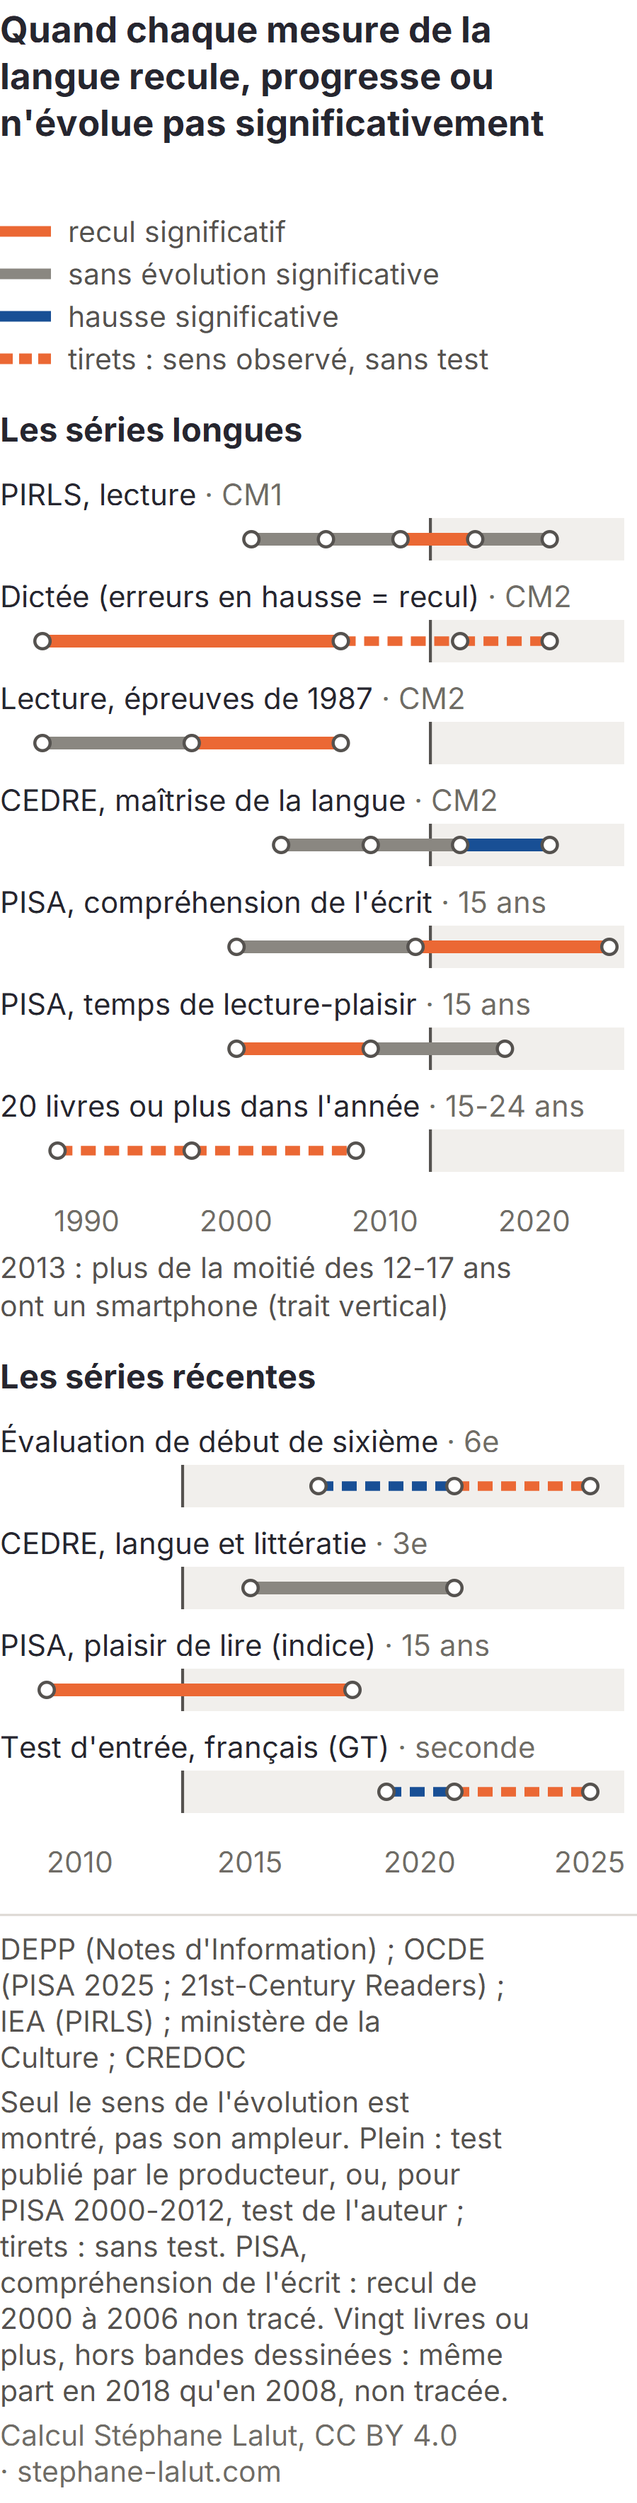
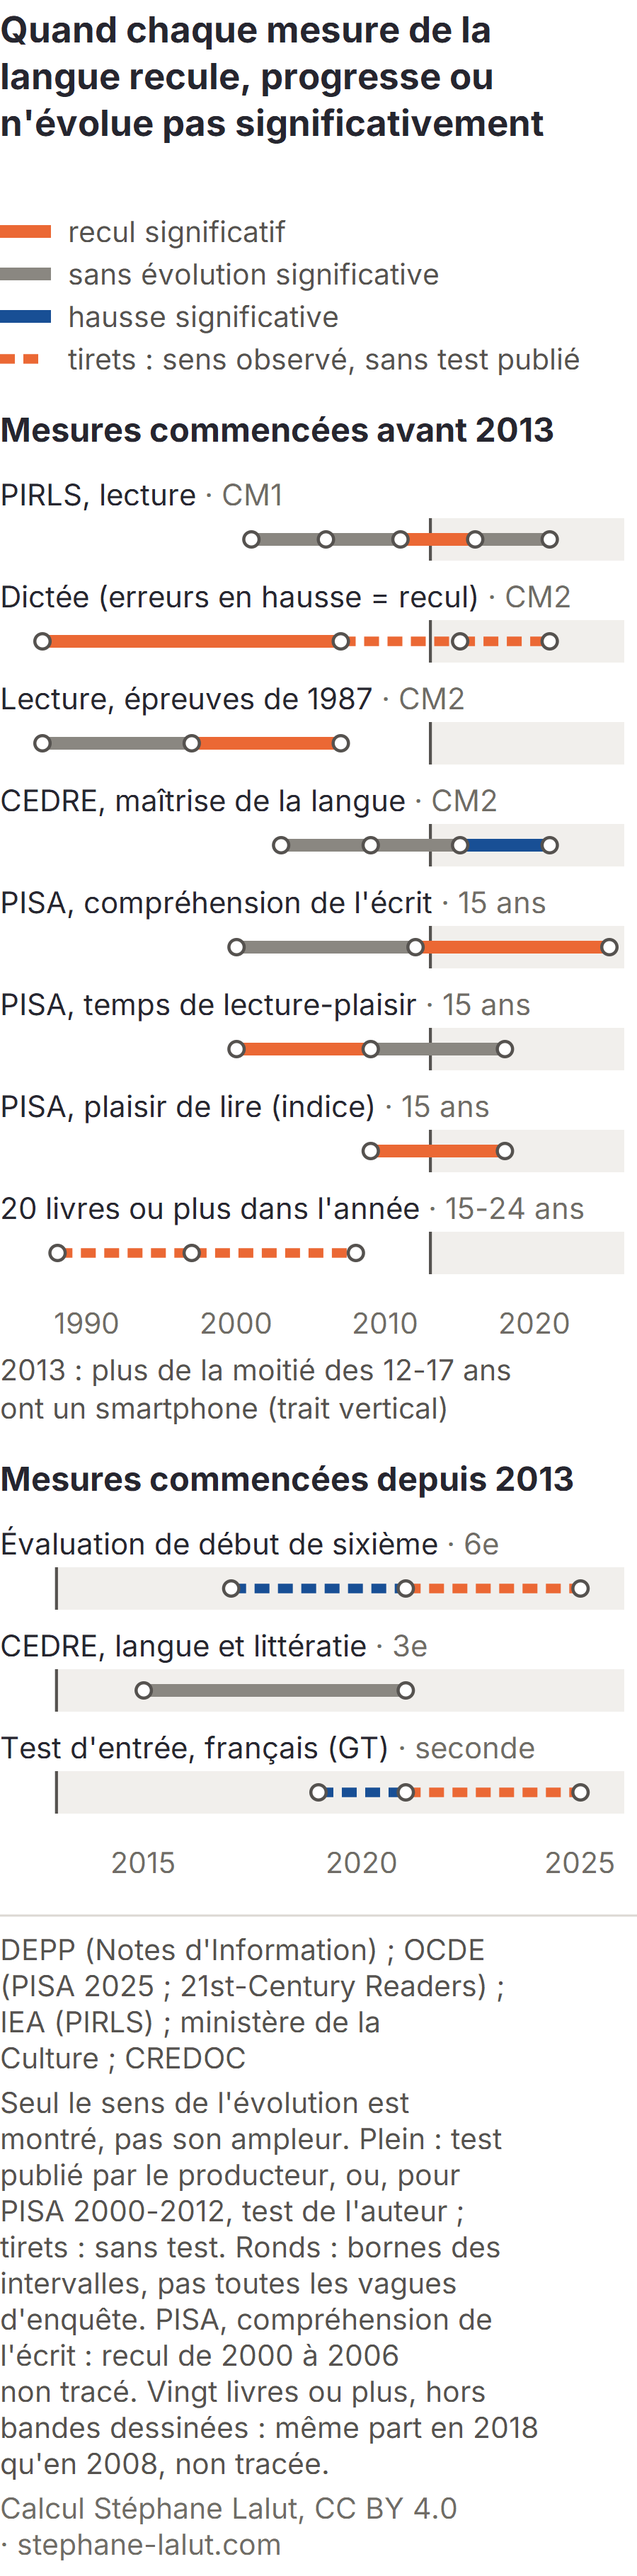
fix(les-eleves-maitrisent-ils-moins-bien-la-langue-francaise): synthèse ramenée au corps, frise expliquée
La synthèse publiée en e79950ed disait par endroits plus que le corps de la page. Relue sur
le texte servi par un relecteur indépendant, en trois passages, elle dit désormais ce que le
corps établit : mesure la plus longue « parmi celles réunies ici » ; généralisation du
smartphone, et non le smartphone ; réserve de période de la comparaison avec PISA ; recul de
l'éducation prioritaire daté, son écart non testé ; « aucune série publique recensée » ;
« pour la France » ; recherches décrites pour les textes seulement. Même famille corrigée
dans la description (modal du corps), le résumé « En trois phrases » et la section des
textes ; l'absence de test de l'écart selon le milieu social, établie à la source (NI 22.29),
est écrite dans le corps.

Frise : la note dit ce que marquent les ronds ; au téléphone, panneaux partagés au repère
de 2013 et titrés par lui, axe du panneau récent calculé, légendes au trait des tracés ;
hauteurs déclarées alignées. Garde de transition PIRLS (le statut 2016-2021 ne lit qu'une
baisse), vue mordre. Deux contrôleurs indépendants, jusqu'à un passage sans défaut nouveau.

Aucun nombre retiré ; ajoutés « à 15 ans », « en 2021 », « de 2015 à 2021 » et « CM2 »,
portés par le corps. Envoi LANGUE-ELEVES-2026-10 : passage cité présent avant et après.
Contrôles : Hugo 0, typo_build 0, check-rendu-ressources 0, check-typo-fr 0,
check-all --ci 0, 57 gardes.

Changed region(s): [[0.0, 0.0, 0.9644, 0.9952]]

diff --git a/scripts/update_langue_eleves.py b/scripts/update_langue_eleves.py
@@ -225,6 +225,11 @@ def gardes(c):
     tot, lx = dic["total"], dic["lexicales"]
     autres = {a: tot[a] - lx[a] for a in tot}
     # chronologie
+    # Garde de transition (contrôle de géométrie de la frise, 18/11/2026) : le statut de PIRLS 2016-2021 vient du gras de
+    # la NI 23.21 (« significativement supérieur à 2021 »), qui ne signale qu'une baisse ; une hausse significative serait
+    # tracée en gris sans alerte. Condition de mort : statut lu d'un indicateur de significativité dans les deux sens.
+    g(max(k for k in c["pirls"] if k.isdigit()) == "2021", "PIRLS sans cycle postérieur à 2021 (sinon, lire la"
+      " significativité dans les deux sens avant de tracer)")
     g(c["seuil"] == 2013 and c["sm"][2011] < 25, "« en 2013, plus de la moitié des 12-17 ans » ; « en 2011, moins d'un quart »")
     g(dic["hausse_significative_1987_2007"] and 2007 < c["seuil"], "dictée : hausse significative des erreurs de 1987 à 2007, « avant le smartphone »")
     g(lc["stable_1987_1997"] and lc["baisse_significative_1997_2007"] and lc["score"]["2007"] < lc["score"]["1997"] <= lc["score"]["1987"] + 0.05,
@@ -463,7 +468,7 @@ FIG = {
     "chronologie": dict(
         titre="La langue des élèves : quand chaque mesure recule, progresse ou n'évolue pas significativement",
         source="DEPP (Notes d'Information) ; OCDE (PISA 2025 ; 21st-Century Readers) ; IEA (PIRLS) ; ministère de la Culture ; CREDOC",
-        note="Seul le sens de l'évolution est montré, pas son ampleur. Plein : test publié par le producteur, ou, pour PISA 2000-2012, test de l'auteur ; tirets : sans test. PISA, compréhension de l'écrit : recul de 2000 à 2006 non\u00a0tracé. Vingt livres ou plus, hors bandes dessinées : même part en 2018 qu'en 2008, non\u00a0tracée.",
+        note="Seul le sens de l'évolution est montré, pas son ampleur. Plein : test publié par le producteur, ou, pour PISA 2000-2012, test de l'auteur ; tirets : sans test. Ronds : bornes des intervalles, pas toutes les vagues d'enquête. PISA, compréhension de l'écrit : recul de 2000 à 2006 non\u00a0tracé. Vingt livres ou plus, hors bandes dessinées : même part en 2018 qu'en 2008, non\u00a0tracée.",
         montre="Les reculs les plus anciens (dictée et lecture en CM2, temps de lecture pour le plaisir à 15 ans) précèdent 2013 ; PISA, revenu en 2012 à son niveau de 2000, baisse significativement ensuite, et les évaluations passées en classe ne suivent pas toutes cette pente."),
     "dictee": dict(
         titre="La même dictée en CM2 : nombre moyen d'erreurs",
@@ -617,7 +622,7 @@ def fig_chronologie(c, A):
     x = 0
     for (col, plein), lib in ((( ORANGE, True), "recul significatif"), ((GRIS, True), "sans évolution significative"),
                               ((BLEU, True), "hausse significative"), ((ORANGE, False), "tirets : sens observé, sans test publié")):
-        e.append('<line x1="%d" y1="%d" x2="%d" y2="%d" stroke="%s" stroke-width="4"%s/>' % (x, yl, x + 22, yl, col, "" if plein else ' stroke-dasharray="5 3"'))
+        e.append('<line x1="%d" y1="%d" x2="%d" y2="%d" stroke="%s" stroke-width="%s"%s/>' % (x, yl, x + 22, yl, col, "4" if plein else "3", "" if plein else ' stroke-dasharray="5 3"'))  # trait des tracés
         e.append('<text x="%d" y="%d" font-size="11" fill="%s">%s</text>' % (x + 28, yl + 4, INK2, esc(lib)))
         x += 34 + int(5.2 * 11 / 10 * len(lib))   # 5,2 px par caractère à 10 px, portés à la police de 11 (7 px sortaient la 4e entrée du cadre, mesure du 11/10/2026)
     return pied(e, h + 2, t["source"], t["note"])
@@ -772,23 +777,25 @@ def fig_plaisir_m(c, A):
 
 
 def fig_chronologie_m(c, A):
-    """Deux panneaux à axes propres : les mesures qui remontent avant 2009, puis les mesures récentes (axe 2008-2026)."""
+    """Deux panneaux à axes propres : les mesures commencées avant le repère (axe 1985-2026), puis celles commencées depuis (axe calculé)."""
     t = FIG["chronologie"]
     L = lignes_chrono(c)
     mots = {(ORANGE, True): "recul significatif", (BLEU, True): "hausse significative", (GRIS, True): "sans évolution significative",
             (ORANGE, False): "recul, sans test publié", (BLEU, False): "hausse, sans test publié"}
     desc = "Frise en deux panneaux, une ligne par mesure, sens de chaque intervalle ; repère : %s, plus de la moitié des 12-17 ans équipés d'un smartphone. " % A["smart_seuil"] + " ; ".join(
         "%s (%s) : %s" % (lib, pop, ", ".join("%d-%d %s" % (u, v, mots[statut(sg, bs)]) for u, v, sg, bs in seg)) for lib, pop, seg in L) + ". " + t["note"].split("tirets : sans test. ", 1)[1]
-    longues = [r for r in L if min(u for u, *_ in r[2]) < 2009]
-    recentes = [r for r in L if min(u for u, *_ in r[2]) >= 2009]
+    longues = [r for r in L if min(u for u, *_ in r[2]) < c["seuil"]]  # partage au repère (forme, 18/11/2026)
+    recentes = [r for r in L if min(u for u, *_ in r[2]) >= c["seuil"]]
+    a0_rec = int(min(c["seuil"], min(min(u for u, *_ in r[2]) for r in recentes))) - 1  # un an avant la première borne ou le repère
     e, y = tete_m("lan-cm", "Quand chaque mesure de la langue recule, progresse ou n'évolue pas significativement", desc, 0)
     y += 8
     for col, plein, lib in ((ORANGE, True, "recul significatif"), (GRIS, True, "sans évolution significative"),
-                            (BLEU, True, "hausse significative"), (ORANGE, False, "tirets : sens observé, sans test")):
+                            (BLEU, True, "hausse significative"), (ORANGE, False, "tirets : sens observé, sans test publié")):
         y += 20
-        e.append('<line x1="0" y1="%d" x2="24" y2="%d" stroke="%s" stroke-width="5"%s/>' % (y - 5, y - 5, col, "" if plein else ' stroke-dasharray="6 3"'))
+        e.append('<line x1="0" y1="%d" x2="%d" y2="%d" stroke="%s" stroke-width="%s"%s/>' % (y - 5, 24 if plein else 18, y - 5, col, "6" if plein else "4.5", "" if plein else ' stroke-dasharray="7 4"'))  # trait des tracés ; tirets sur 18 : deux tirets entiers
         e.append('<text x="32" y="%d" font-size="%s" fill="%s">%s</text>' % (y, FS_MIN, INK2, lib))
-    for titre_p, rows, a0, a1, pas_ax in (("Les séries longues", longues, 1985, 2026, 10), ("Les séries récentes", recentes, 2008, 2026, 5)):
+    for titre_p, rows, a0, a1, pas_ax, repere in (("Mesures commencées avant %s" % A["smart_seuil"], longues, 1985, 2026, 10, True),
+                                                  ("Mesures commencées depuis %s" % A["smart_seuil"], recentes, a0_rec, 2026, 5, False)):
         y += 34
         e.append('<text x="0" y="%d" font-size="15.5" font-weight="600" fill="%s">%s</text>' % (y, INK, titre_p))
         y += 10
@@ -814,7 +821,7 @@ def fig_chronologie_m(c, A):
         for a in range(a0 + (pas_ax - a0 % pas_ax) % pas_ax, a1 + 1, pas_ax):
             e.append('<text x="%.1f" y="%d" font-size="%s" fill="%s" text-anchor="middle">%d</text>' % (sx(a), y + 18, FS_MIN, MUTED, a))
         y += 24
-        if titre_p == "Les séries longues":  # arbitrage multi-angle du 10/10 : dire ce que 2013 désigne
+        if repere:  # arbitrage multi-angle du 10/10 : dire ce que 2013 désigne
             for k, ligne in enumerate(("%s : plus de la moitié des 12-17 ans" % A["smart_seuil"], "ont un smartphone (trait vertical)")):
                 e.append('<text x="0" y="%d" font-size="%s" fill="%s">%s</text>' % (y + 16 + 18 * k, FS_MIN, INK2, ligne))
             y += 34
